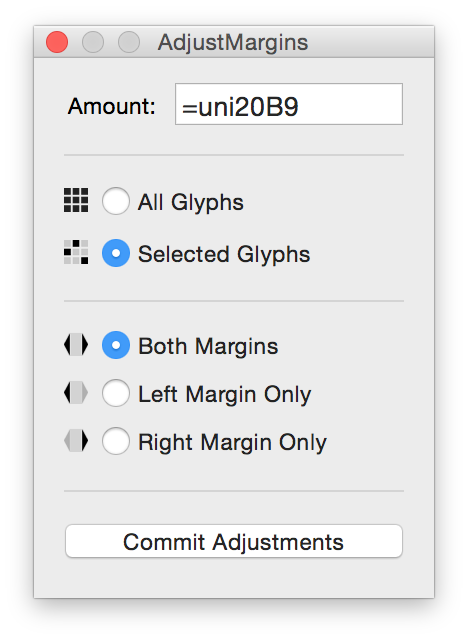
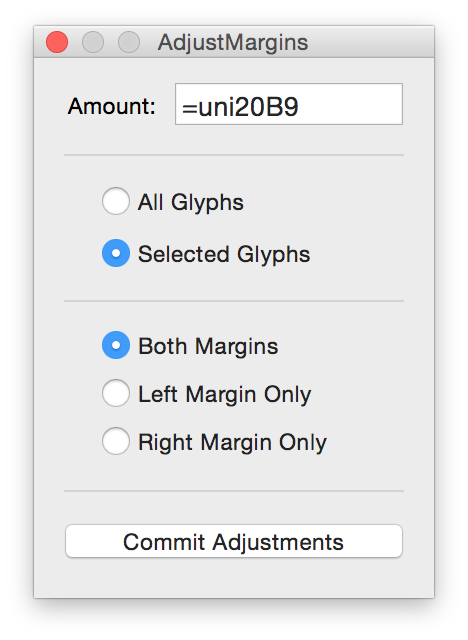
Added ability to set explicitly to a negative number.

diff --git a/AdjustMargins.roboFontExt/html/index.html b/AdjustMargins.roboFontExt/html/index.html
@@ -23,7 +23,7 @@
 	
 	<dl>
 		<dt>Amount:</dt>
-		<dd>The amount you with to add/subtract from the margins on your selected glyph(s) (eg. 100, -20, 42, -5). You can also use the = operand followed by a glyph name to have the margins of your selected glyphs(s) to be changed to that glyphs margin measurements (eg. =A, =Oacute, =uni20B9).</dd>
+		<dd>The amount you with to add/subtract from the margins on your selected glyph(s) (e.g. 100, -20, 42, -5). You can also use the = operand followed by a number to set the margin(s) explicitly to that measurement, or you can enter a glyph name to have the margins of your selected glyphs(s) to be changed to that glyphs margin measurements (e.g. =15, =-50, =A, =Oacute, =uni20B9).</dd>
 		
 		<dt>Glyph Range:</dt>
 		<dd>Change all of the glyphs in your file, or just a selected subset.</dd>

diff --git a/AdjustMargins.roboFontExt/lib/AdjustMargins.py b/AdjustMargins.roboFontExt/lib/AdjustMargins.py
@@ -27,151 +27,186 @@ import math
 from defconAppKit.windows.baseWindow import BaseWindowController
 
 class AdjustMargins(BaseWindowController):
-    
-    # setup our interface
-    def __init__(self): 
-        windowWidth = 200
-        windowHeight = 270
-        
-        # amount area
-        self.w = vanilla.FloatingWindow((windowWidth,windowHeight),"AdjustMargins")
-        self.w.amountText = vanilla.TextBox((15,17,65,22),"Amount:",sizeStyle="small")
-        self.w.amountTextBox = vanilla.EditText((70,12,-15,22))
-        
-        # divider
-        self.w.divider1 = vanilla.HorizontalLine((15,48,-15,1))
-        
-        # glyphs scope area
-        self.w.iconAllGlyphs = vanilla.ImageView((15,65,12,13))
-        self.w.iconAllGlyphs.setImage(imagePath="../resources/allGlyphs.png")
-        self.w.iconSelGlyphs = vanilla.ImageView((15,91,12,13))
-        self.w.iconSelGlyphs.setImage(imagePath="../resources/selectedGlyphs.png")
-        self.w.glyphsRadioGroup = vanilla.RadioGroup((32,60,-15,50),["All Glyphs","Selected Glyphs"],sizeStyle="small")
-        self.w.glyphsRadioGroup.set(1) # default to just selected glyphs
-        
-        # divider
-        self.w.divider2 = vanilla.HorizontalLine((15,121,-15,1))
-        
-        # margins area
-        self.w.iconBothMargins = vanilla.ImageView((15,137,12,12))
-        self.w.iconBothMargins.setImage(imagePath="../resources/bothMargins.png")
-        self.w.iconLeftMargin = vanilla.ImageView((15,161,12,12))
-        self.w.iconLeftMargin.setImage(imagePath="../resources/leftMargin.png")
-        self.w.iconRightMargin = vanilla.ImageView((15,185,12,12))
-        self.w.iconRightMargin.setImage(imagePath="../resources/rightMargin.png")
-        self.w.marginSelectionGroup = vanilla.RadioGroup((32,133,-15,70),["Both Margins","Left Margin Only","Right Margin Only"],sizeStyle="small")
-        self.w.marginSelectionGroup.set(0) # default both margins
-        
-        # divider
-        self.w.divider3 = vanilla.HorizontalLine((15,216,-15,1))
-        
-        # commit button
-        self.w.commitButton = vanilla.Button((15, 232, -15, 20), "Commit Adjustments", sizeStyle="small", callback=self.commitButtonCallback)
-        
-        self.w.open() # go go gadget window
-    
-    
-    def commitButtonCallback(self, sender):
-        
-        if CurrentFont() is None:  
-            self.showMessage("Nothing Open","Please open a file first.") # show error, can't work with nothing...
-        else:        
-            font = CurrentFont()
-            
-            adjustmentAmount = self.w.amountTextBox.get()
-            
-            if len(adjustmentAmount) == 0:
-                self.showMessage("How Much?","Please enter an adjustment amount.") # show error, can't work with nothing...
-            else:
-                
-                #
-                #    Get scope
-                #
-                
-                # which glyphs we're working with
-                if self.w.glyphsRadioGroup.get() == 0:
-                    glyphs = font.keys() # all
-                else:
-                    glyphs = font.selection # a subset
-                    if glyphs == []:
-                        # "selected glyphs" is checked but nothing is selected
-                        self.showMessage("Adjust What?", "Please select at least one glyph to preform the adjustments on.")
-                        return # bail
-                    
-                #
-                #    Do adjustments
-                #
-                
-                # if the user wants to set a margin exactly 
-                if adjustmentAmount[:1] == "=":
-                    
-                    if (adjustmentAmount[1:].isdigit()): # if after the "=" a number is supplied
-                        # set to a specific number
-                        adjustmentAmount = int(adjustmentAmount[1:]) # make sure we're dealing with integers
-                        
-                        for glyphName in glyphs:
-                            glyph = font[glyphName]
-                            glyph.prepareUndo("Metric Adjustment")
-                            if self.w.marginSelectionGroup.get() == 0: # adjust both margins
-                                glyph.leftMargin = adjustmentAmount
-                                glyph.rightMargin = adjustmentAmount
-                                print("Adjusted left and right margins to " + str(adjustmentAmount) + " for glyph: " + glyphName)
-                            elif self.w.marginSelectionGroup.get() == 1:
-                                glyph.leftMargin = adjustmentAmount
-                                print("Adjusted left margin to " + str(adjustmentAmount) + " for glyph: " + glyphName)
-                            elif self.w.marginSelectionGroup.get() == 2: # adjust right margin only
-                                glyph.rightMargin = adjustmentAmount
-                                print("Adjusted right margin to " + str(adjustmentAmount) + " for glyph: " + glyphName)
-                            glyph.performUndo()
-                    
-                    else: # if after the "=" a character is supplied
-                        # use an exisiting glyphs measurements
-                        characterName = adjustmentAmount[1:] # everything after the =
-                        
-                        # see if the glyph even exists at all
-                        if characterName in font:
-                            character = font[characterName]
-                            adjustmentLeft = int(character.leftMargin) # integers only please
-                            adjustmentRight = int(character.rightMargin) # integers only please
-                        else:
-                            self.showMessage("Glyph Not Found.","Glyph \"" + characterName + "\" does not exist in this font.");
-                
-                
-                        # preform adjustments using the supplied character's metrics
-                        for glyphName in glyphs:
-                            glyph = font[glyphName]
-                            glyph.prepareUndo("Metric Adjustment")
-                            if self.w.marginSelectionGroup.get() == 0: # adjust both margins
-                                glyph.leftMargin = adjustmentLeft
-                                glyph.rightMargin = adjustmentRight
-                                print("Adjusted left margin to " + str(adjustmentLeft) + " for glyph: " + glyphName)
-                                print("Adjusted right margin to " + str(adjustmentRight) + " for glyph: " + glyphName)
-                            elif self.w.marginSelectionGroup.get() == 1: # adjust left margin only
-                                glyph.leftMargin = adjustmentLeft
-                                print("Adjusted left margin to " + str(adjustmentLeft) + " for glyph: " + glyphName)
-                            elif self.w.marginSelectionGroup.get() == 2: # adjust right margin only
-                                glyph.rightMargin = adjustmentRight
-                                print("Adjusted right margin to " + str(adjustmentRight) + " for glyph: " + glyphName)
-                            glyph.performUndo()
-                        
-                
-                else: # for all other adjustments (+ or -)
-                    adjustmentAmount = int(adjustmentAmount) # make sure we're dealing with integers
-                
-                    for glyphName in glyphs:
-                        glyph = font[glyphName]
-                        glyph.prepareUndo("Metric Adjustment")
-                        if self.w.marginSelectionGroup.get() == 0: # adjust both margins
-                            glyph.leftMargin = glyph.leftMargin + adjustmentAmount
-                            glyph.rightMargin = glyph.rightMargin + adjustmentAmount
-                            print("Adjusted left and right margins " + str(adjustmentAmount) + " for glyph: " + glyphName)
-                        elif self.w.marginSelectionGroup.get() == 1:
-                            glyph.leftMargin = glyph.leftMargin + int(adjustmentAmount)
-                            print("Adjusted left margin " + str(adjustmentAmount) + " for glyph: " + glyphName)
-                        elif self.w.marginSelectionGroup.get() == 2: # adjust right margin only
-                            glyph.rightMargin = glyph.rightMargin + adjustmentAmount
-                            print("Adjusted right margin " + str(adjustmentAmount) + " for glyph: " + glyphName)
-                        glyph.performUndo()
-                                
-                
+	
+	# setup our interface
+	def __init__(self): 
+		windowWidth = 200
+		windowHeight = 270
+		
+		# amount area
+		self.w = vanilla.FloatingWindow((windowWidth,windowHeight),"AdjustMargins")
+		self.w.amountText = vanilla.TextBox((15,17,65,22),"Amount:",sizeStyle="small")
+		self.w.amountTextBox = vanilla.EditText((70,12,-15,22))
+		
+		# divider
+		self.w.divider1 = vanilla.HorizontalLine((15,48,-15,1))
+		
+		# glyphs scope area
+		self.w.iconAllGlyphs = vanilla.ImageView((15,65,12,13))
+		self.w.iconAllGlyphs.setImage(imagePath="../resources/allGlyphs.png")
+		self.w.iconSelGlyphs = vanilla.ImageView((15,91,12,13))
+		self.w.iconSelGlyphs.setImage(imagePath="../resources/selectedGlyphs.png")
+		self.w.glyphsRadioGroup = vanilla.RadioGroup((32,60,-15,50),["All Glyphs","Selected Glyphs"],sizeStyle="small")
+		self.w.glyphsRadioGroup.set(1) # default to just selected glyphs
+		
+		# divider
+		self.w.divider2 = vanilla.HorizontalLine((15,121,-15,1))
+		
+		# margins area
+		self.w.iconBothMargins = vanilla.ImageView((15,137,12,12))
+		self.w.iconBothMargins.setImage(imagePath="../resources/bothMargins.png")
+		self.w.iconLeftMargin = vanilla.ImageView((15,161,12,12))
+		self.w.iconLeftMargin.setImage(imagePath="../resources/leftMargin.png")
+		self.w.iconRightMargin = vanilla.ImageView((15,185,12,12))
+		self.w.iconRightMargin.setImage(imagePath="../resources/rightMargin.png")
+		self.w.marginSelectionGroup = vanilla.RadioGroup((32,133,-15,70),["Both Margins","Left Margin Only","Right Margin Only"],sizeStyle="small")
+		self.w.marginSelectionGroup.set(0) # default both margins
+		
+		# divider
+		self.w.divider3 = vanilla.HorizontalLine((15,216,-15,1))
+		
+		# commit button
+		self.w.commitButton = vanilla.Button((15, 232, -15, 20), "Commit Adjustments", sizeStyle="small", callback=self.commitButtonCallback)
+		
+		self.w.open() # go go gadget window
+	
+	
+	def commitButtonCallback(self, sender):
+		#
+		# Note:
+		# Code is getting pretty spaghettified, need to make this stuff into functions to get 
+		# away from all the if else's, but, at least things work okay for the time being.
+		#
+		
+		
+		if CurrentFont() is None:  
+			self.showMessage("Nothing Open","Please open a file first.") # show error, can't work with nothing...
+		else:		
+			font = CurrentFont()
+			
+			adjustmentAmount = self.w.amountTextBox.get()
+			
+			if len(adjustmentAmount) == 0:
+				self.showMessage("How Much?","Please enter an adjustment amount.") # show error, can't work with nothing...
+			else:
+				
+				#
+				#	Get scope
+				#
+				
+				# which glyphs we're working with
+				if self.w.glyphsRadioGroup.get() == 0:
+					glyphs = font.keys() # all
+				else:
+					glyphs = font.selection # a subset
+					if glyphs == []:
+						# "selected glyphs" is checked but nothing is selected
+						self.showMessage("Adjust What?", "Please select at least one glyph to preform the adjustments on.")
+						return # bail
+					
+				#
+				#	Do adjustments
+				#
+				
+				# if the user wants to set a margin exactly 
+				if adjustmentAmount[:1] == "=":
+					
+					if adjustmentAmount[1:2] == "-": # if a negative sign proceeds the "="
+						if adjustmentAmount[2:3].isdigit():
+							# set to a specific number
+							adjustmentAmount = int(adjustmentAmount[1:]) # make sure we're dealing with integers
+							
+							for glyphName in glyphs:
+								glyph = font[glyphName]
+								glyph.prepareUndo("Metric Adjustment")
+								if self.w.marginSelectionGroup.get() == 0: # adjust both margins
+									glyph.leftMargin = adjustmentAmount
+									glyph.rightMargin = adjustmentAmount
+									print("Adjusted left and right margins to " + str(adjustmentAmount) + " for glyph: " + glyphName)
+								elif self.w.marginSelectionGroup.get() == 1:
+									glyph.leftMargin = adjustmentAmount
+									print("Adjusted left margin to " + str(adjustmentAmount) + " for glyph: " + glyphName)
+								elif self.w.marginSelectionGroup.get() == 2: # adjust right margin only
+									glyph.rightMargin = adjustmentAmount
+									print("Adjusted right margin to " + str(adjustmentAmount) + " for glyph: " + glyphName)
+								glyph.performUndo()
+								
+						else: # not a digit found after "-"
+							self.showMessage("Error","cannot deal with things like =-A")
+						
+						return # bail
+					
+					if (adjustmentAmount[1:].isdigit()): # if after the "=" a number is supplied
+						# set to a specific number
+						adjustmentAmount = int(adjustmentAmount[1:]) # make sure we're dealing with integers
+						
+						for glyphName in glyphs:
+							glyph = font[glyphName]
+							glyph.prepareUndo("Metric Adjustment")
+							if self.w.marginSelectionGroup.get() == 0: # adjust both margins
+								glyph.leftMargin = adjustmentAmount
+								glyph.rightMargin = adjustmentAmount
+								print("Adjusted left and right margins to " + str(adjustmentAmount) + " for glyph: " + glyphName)
+							elif self.w.marginSelectionGroup.get() == 1:
+								glyph.leftMargin = adjustmentAmount
+								print("Adjusted left margin to " + str(adjustmentAmount) + " for glyph: " + glyphName)
+							elif self.w.marginSelectionGroup.get() == 2: # adjust right margin only
+								glyph.rightMargin = adjustmentAmount
+								print("Adjusted right margin to " + str(adjustmentAmount) + " for glyph: " + glyphName)
+							glyph.performUndo()
+							
+						return # bail
+					
+					else: # if after the "=" a character is supplied
+						# use an exisiting glyphs measurements
+						characterName = adjustmentAmount[1:] # everything after the =
+						
+						# see if the glyph even exists at all
+						if characterName in font:
+							character = font[characterName]
+							adjustmentLeft = int(character.leftMargin) # integers only please
+							adjustmentRight = int(character.rightMargin) # integers only please
+						else:
+							self.showMessage("Glyph Not Found.","Glyph \"" + characterName + "\" does not exist in this font.")
+				
+				
+						# preform adjustments using the supplied character's metrics
+						for glyphName in glyphs:
+							glyph = font[glyphName]
+							glyph.prepareUndo("Metric Adjustment")
+							if self.w.marginSelectionGroup.get() == 0: # adjust both margins
+								glyph.leftMargin = adjustmentLeft
+								glyph.rightMargin = adjustmentRight
+								print("Adjusted left margin to " + str(adjustmentLeft) + " for glyph: " + glyphName)
+								print("Adjusted right margin to " + str(adjustmentRight) + " for glyph: " + glyphName)
+							elif self.w.marginSelectionGroup.get() == 1: # adjust left margin only
+								glyph.leftMargin = adjustmentLeft
+								print("Adjusted left margin to " + str(adjustmentLeft) + " for glyph: " + glyphName)
+							elif self.w.marginSelectionGroup.get() == 2: # adjust right margin only
+								glyph.rightMargin = adjustmentRight
+								print("Adjusted right margin to " + str(adjustmentRight) + " for glyph: " + glyphName)
+							glyph.performUndo()
+						
+						return # bail
+				
+				else: # for all other adjustments (+ or -)
+					adjustmentAmount = int(adjustmentAmount) # make sure we're dealing with integers
+				
+					for glyphName in glyphs:
+						glyph = font[glyphName]
+						glyph.prepareUndo("Metric Adjustment")
+						if self.w.marginSelectionGroup.get() == 0: # adjust both margins
+							glyph.leftMargin = glyph.leftMargin + adjustmentAmount
+							glyph.rightMargin = glyph.rightMargin + adjustmentAmount
+							print("Adjusted left and right margins " + str(adjustmentAmount) + " for glyph: " + glyphName)
+						elif self.w.marginSelectionGroup.get() == 1:
+							glyph.leftMargin = glyph.leftMargin + int(adjustmentAmount)
+							print("Adjusted left margin " + str(adjustmentAmount) + " for glyph: " + glyphName)
+						elif self.w.marginSelectionGroup.get() == 2: # adjust right margin only
+							glyph.rightMargin = glyph.rightMargin + adjustmentAmount
+							print("Adjusted right margin " + str(adjustmentAmount) + " for glyph: " + glyphName)
+						glyph.performUndo()
+					
+					return # bail
+				
 OpenWindow(AdjustMargins)

diff --git a/README.md b/README.md
@@ -9,7 +9,7 @@ AdjustMargins batch adjusts the left and right margins on your glyphs.
 
 
 ### Amount:
-The amount you with to add/subtract from the margins on your selected glyph(s) (e.g. 100, -20, 42, -5). You can also use the = operand followed by a non-negative number to set the margin(s) explicitly to that measurement, or you can enter a glyph name to have the margins of your selected glyphs(s) to be changed to that glyphs margin measurements (e.g. =A, =Oacute, =uni20B9).
+The amount you with to add/subtract from the margins on your selected glyph(s) (e.g. 100, -20, 42, -5). You can also use the = operand followed by a number to set the margin(s) explicitly to that measurement, or you can enter a glyph name to have the margins of your selected glyphs(s) to be changed to that glyphs margin measurements (e.g. =15, =-50, =A, =Oacute, =uni20B9).
 
 ### Glyph Range:
 Change all of the glyphs in your file, or just a selected subset.
